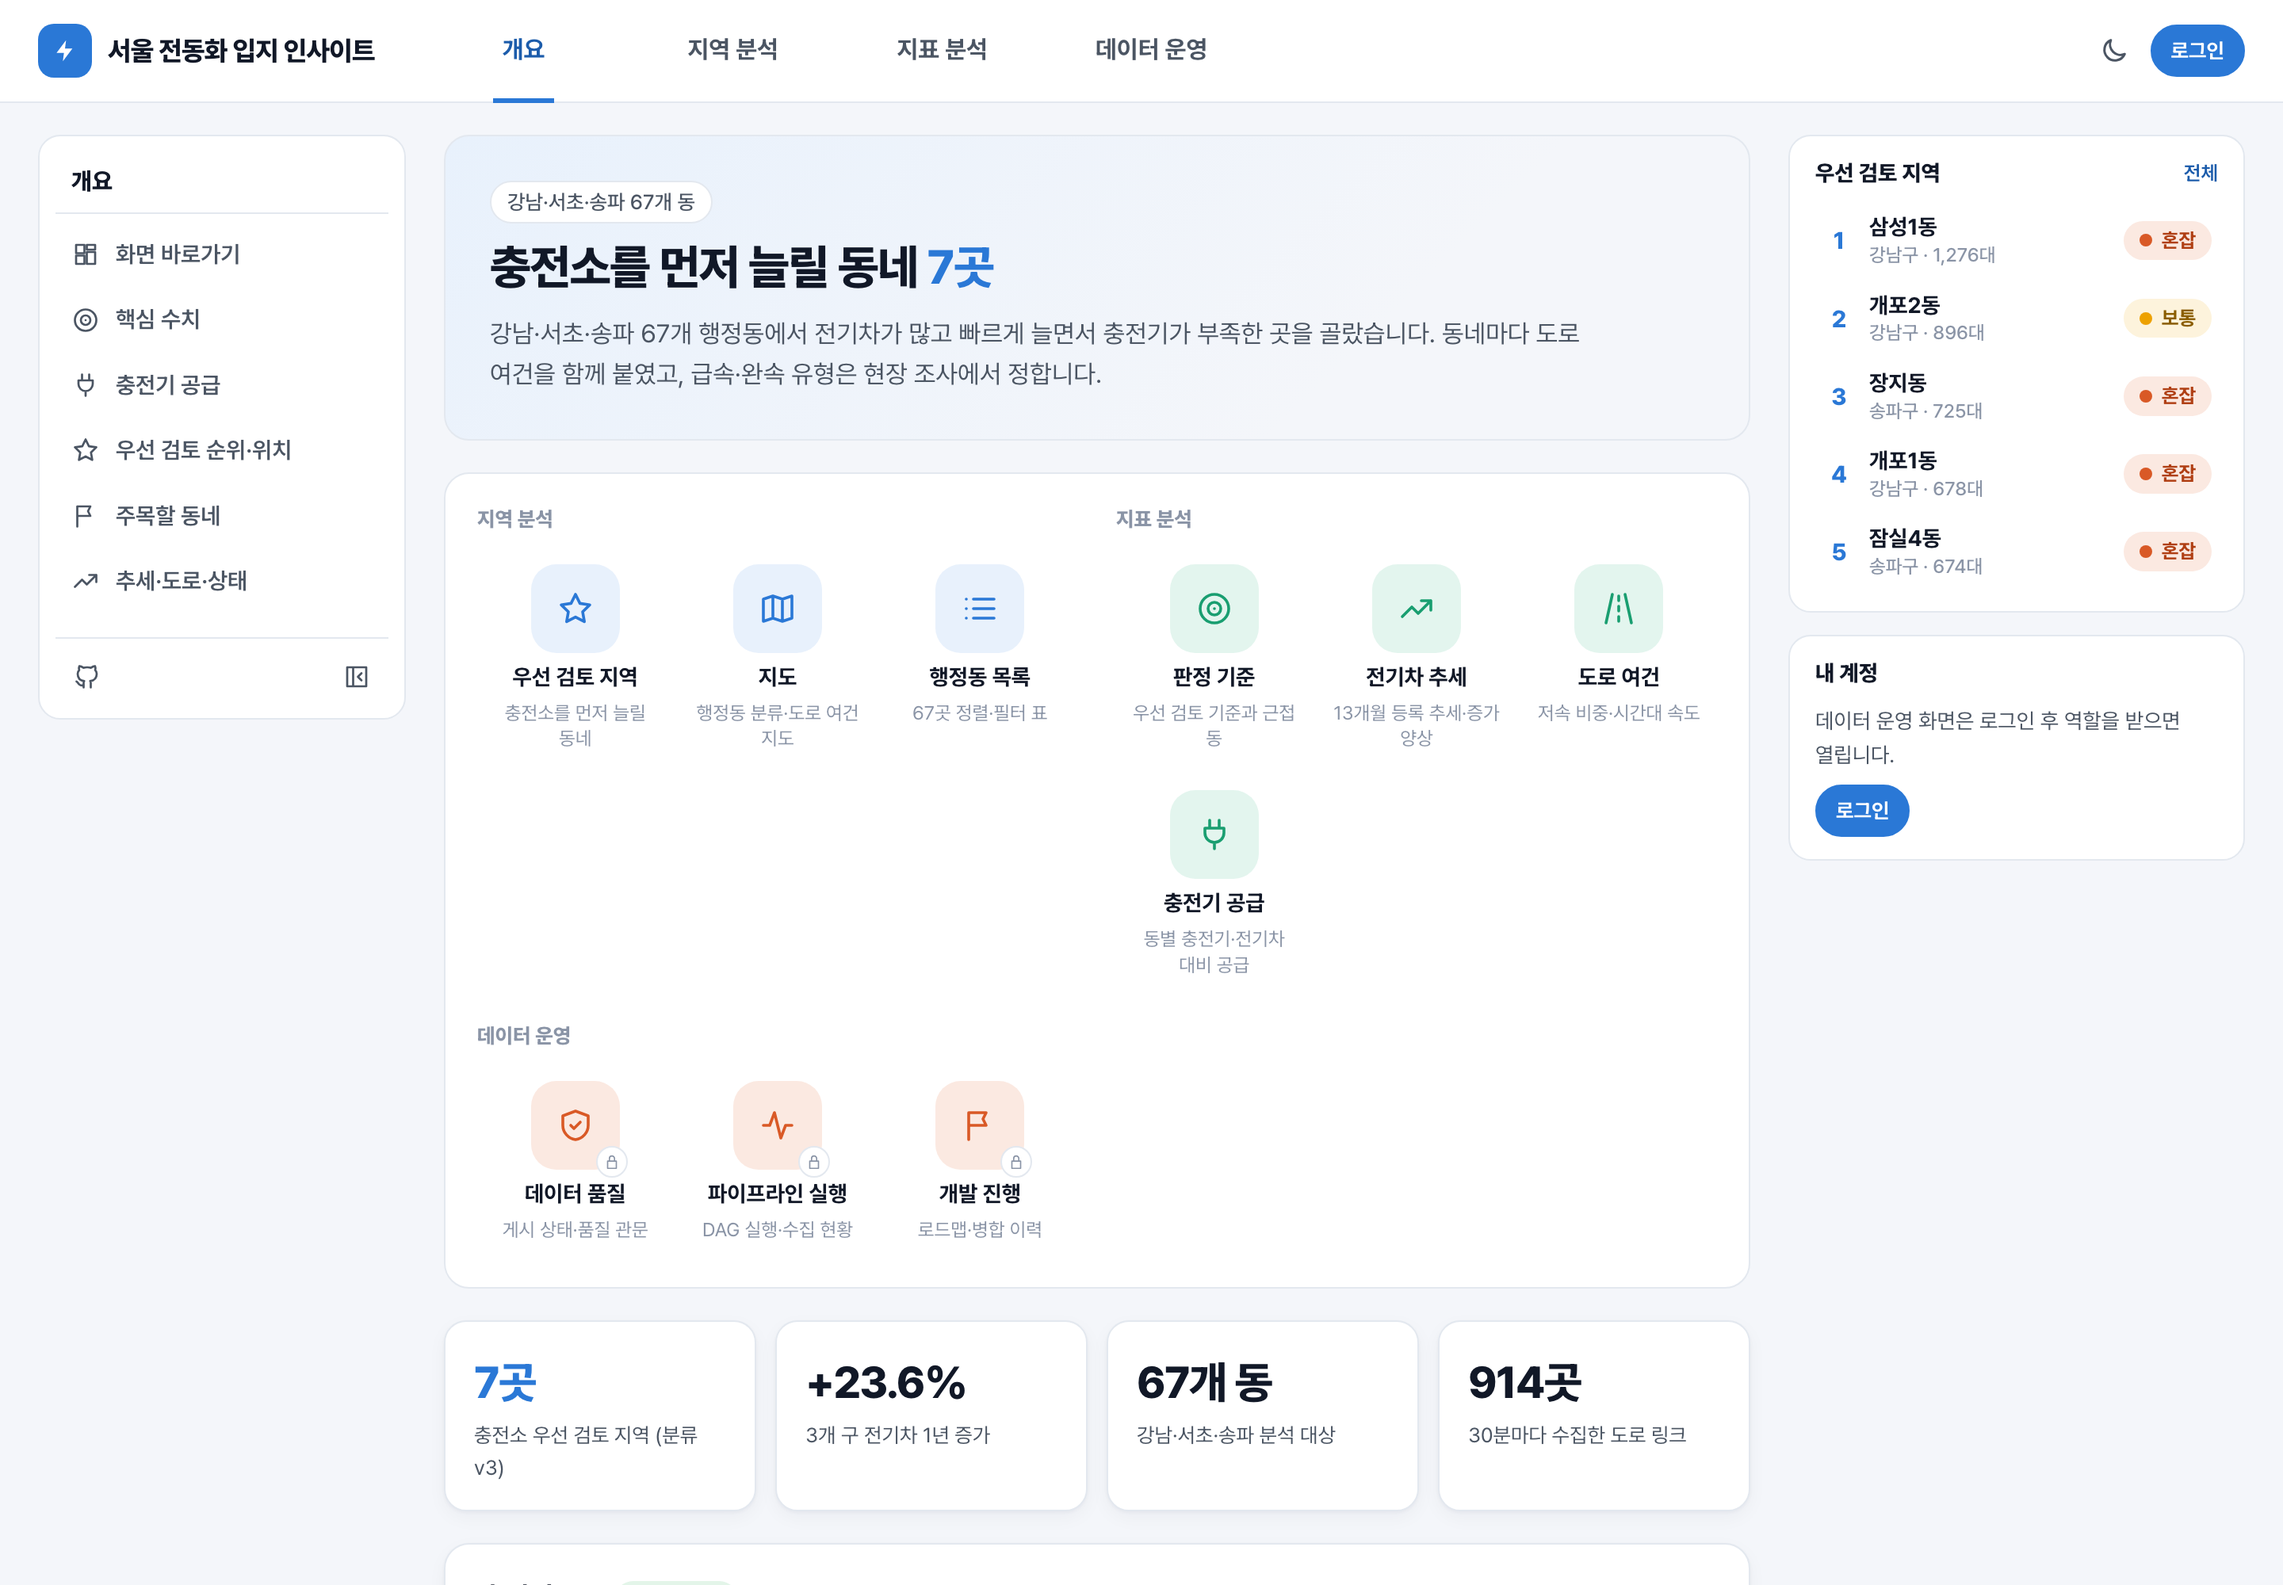
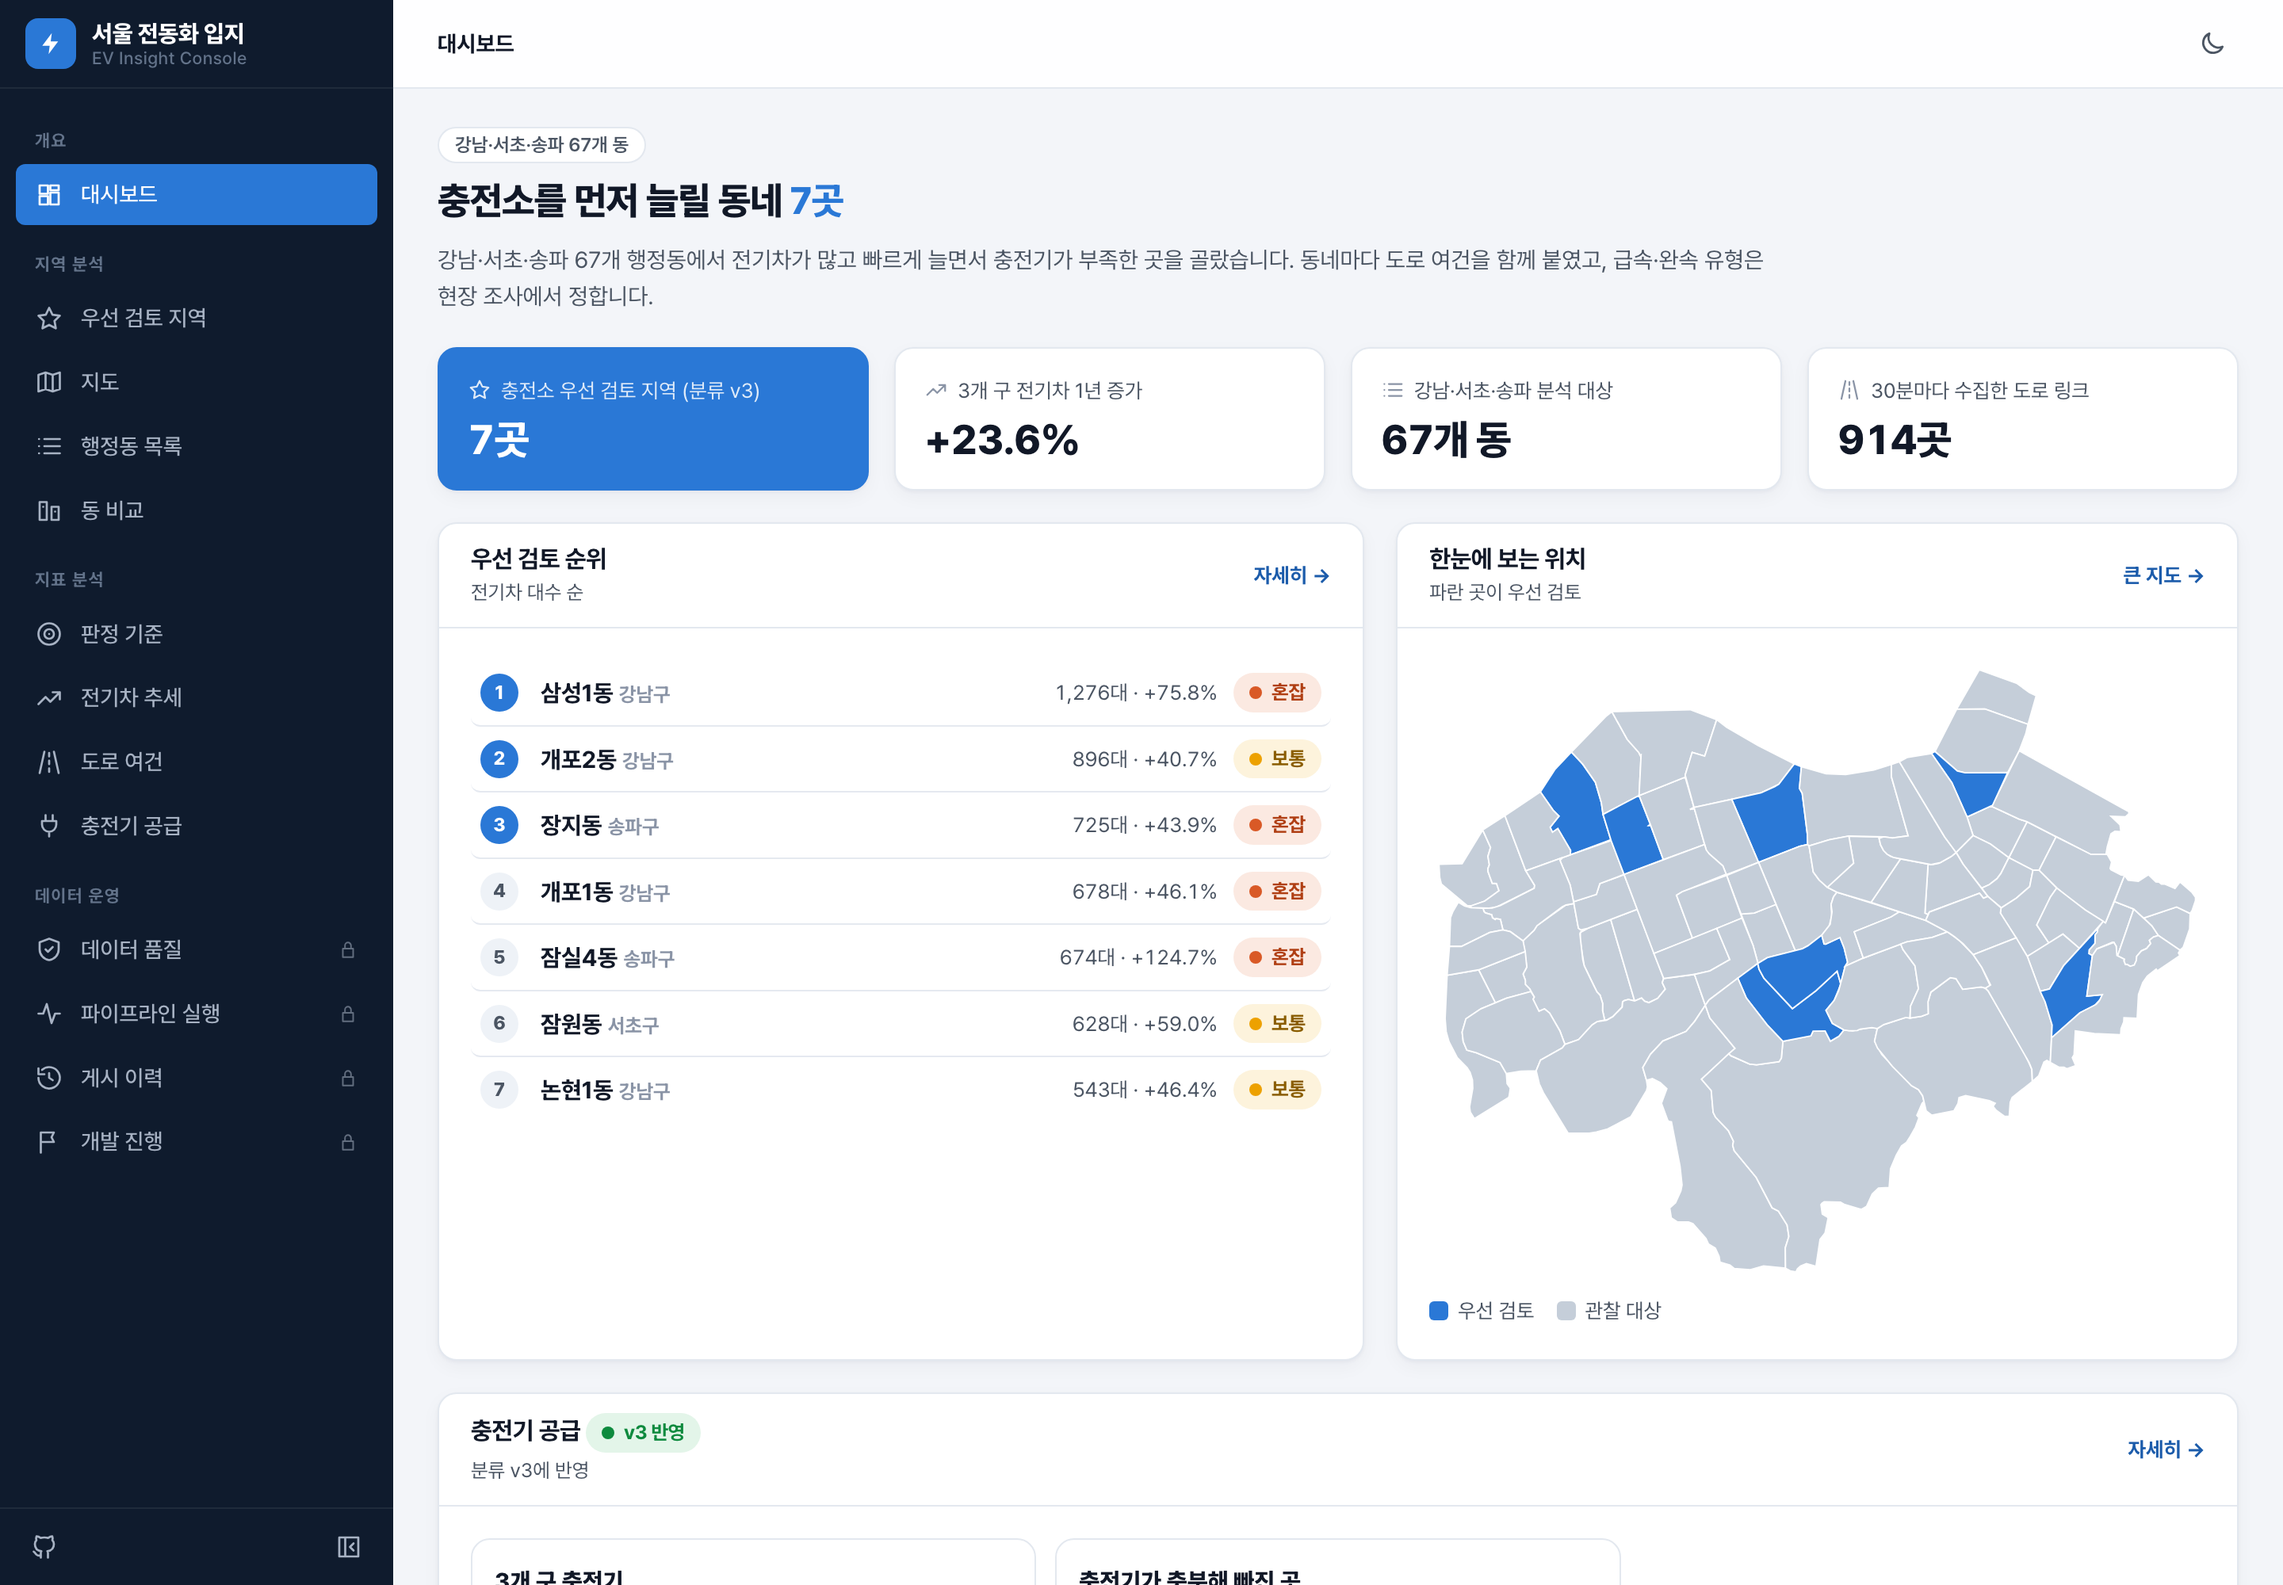
docs: README 웹 화면·스택 갱신

diff --git a/README.md b/README.md
@@ -49,7 +49,7 @@
 | 웹 | 결과 데이터 자동 게시(web-data 브랜치) → Vercel, Google·카카오 로그인·역할별 운영 화면 |
 | CI/CD | `lint` → `test` → `validate_dag` → `validate_ddl` 통과해야 main 병합, 웹 빌드 별도 확인 |
 
-Airflow 3.3.2 (CeleryExecutor) · PostgreSQL 16 + PostGIS · React + Vite · Supabase · Vercel · Rshiny
+Airflow 3.3.2 (CeleryExecutor) · PostgreSQL 16 + PostGIS · React + Vite + Bootstrap 5 · Supabase · Vercel · Rshiny
 
 ### DAG 관계도
 
